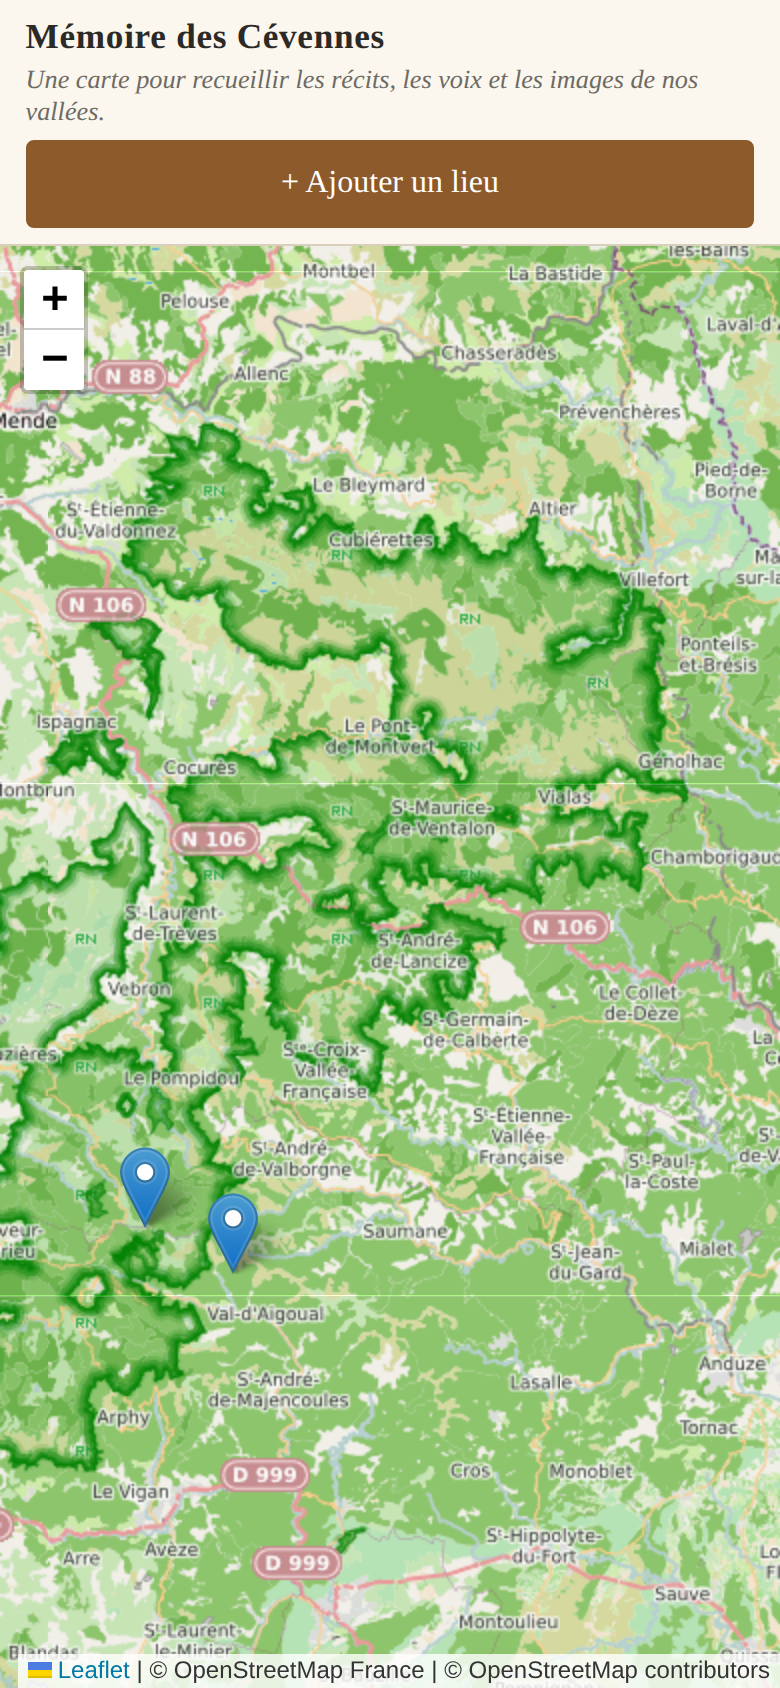
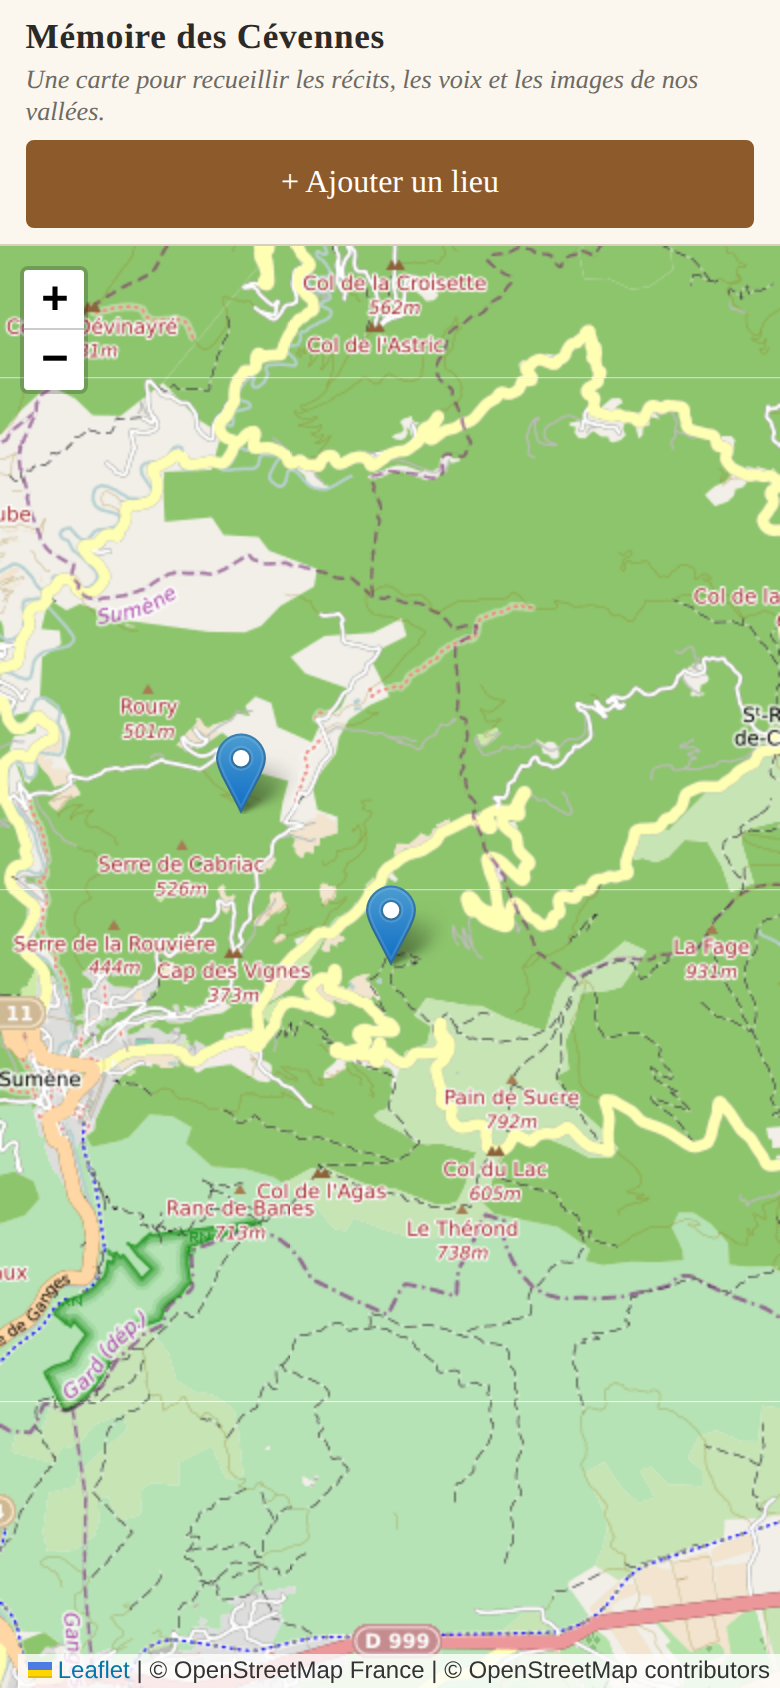
Recentrage par défaut sur Saint-Roman-de-Codières
- Vue par défaut : centre sur Saint-Roman-de-Codières (43.9881, 3.7439)
  avec zoom 13 (village + quelques kilomètres autour). L'ouverture à un
  périmètre plus large des Cévennes viendra plus tard.
- Ajout de Saint-Roman-de-Codières comme lieu (avec alias occitan
  « Sant Roman de Codièras », forme usuelle « Saint-Roman », ancien
  « Codières »).
- Déplacement du Mas de la Coste sur la crête au nord du village.
- Petit récit sur les magnanaries XIXe pour donner du contenu au lieu
  principal dès l'arrivée.
- Description du Mont Aigoual mise à jour pour l'articuler à Saint-Roman.
- Captures d'écran régénérées.

diff --git a/public/js/app.js b/public/js/app.js
@@ -8,8 +8,11 @@
 //     via le hash, donc boutons ← → du navigateur marchent nativement).
 
 // ─── Config ─────────────────────────────────────────────────────────────
-const CEVENNES_CENTER = [44.25, 3.75];
-const CEVENNES_ZOOM = 10;
+// Le projet démarre focalisé sur Saint-Roman-de-Codières et ses alentours
+// (vallée de la Crenze, versant sud de l'Aigoual). Une ouverture plus large
+// sur l'ensemble des Cévennes viendra plus tard.
+const DEFAULT_CENTER = [43.9881, 3.7439];   // Saint-Roman-de-Codières
+const DEFAULT_ZOOM = 13;
 
 const state = {
   mode: 'live',           // 'live' (API) ou 'static' (GitHub Pages)
@@ -20,7 +23,7 @@ const state = {
 };
 
 // ─── Carte ──────────────────────────────────────────────────────────────
-const map = L.map('map', { zoomControl: true }).setView(CEVENNES_CENTER, CEVENNES_ZOOM);
+const map = L.map('map', { zoomControl: true }).setView(DEFAULT_CENTER, DEFAULT_ZOOM);
 L.tileLayer('https://{s}.tile.openstreetmap.fr/osmfr/{z}/{x}/{y}.png', {
   maxZoom: 19,
   attribution: '© OpenStreetMap France | © OpenStreetMap contributors',
